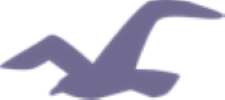
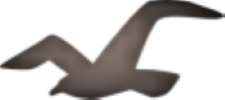
Add files via upload

diff --git a/src/index.css b/src/index.css
@@ -1,5 +1,5 @@
 body {
-  background-color: #00324F;
+  background-color: rgb(32, 31, 28);
   padding: 20px;
   margin: 0;
 }
@@ -7,11 +7,16 @@ body {
     background-image: url(./images/Hollister.jpg);
     margin: auto;
 }
+
+.btn-primary {
+  background-color: rgb(70, 70, 70);
+  border-color: rgb(70, 70, 70);
+}
 .col-one {
       width: 240px;
-      height: 100px;
+      height: 150px;
       background-image: url(./images/seagul2.png);
-      background-color: #00324F;
+      background-color: rgb(32, 31, 28);
       background-repeat: no-repeat;
       margin: auto;
       text-align: center;
@@ -22,8 +27,8 @@ body {
     height: 950px;
     background-repeat: no-repeat;
 }
-h1, h2, h3, p, ul, li, a {
-  color: black;
+h1, h2, h3, h4, p, ul, li, a {
+  color: azure;
   font-family: 'Franklin Gothic Medium', 'Arial Narrow', Arial, sans-serif
 }
 ul.header li {
@@ -32,7 +37,7 @@ ul.header li {
   margin: 0;
 }
 ul.header {
-  background-color: #00324F;
+  background-color: rgb(49, 48, 43);
   padding: 0;
 }
 ul.header li a {
@@ -57,26 +62,34 @@ ul.header li a {
   margin-bottom: 10px;
 }
 .active {
-  background-color: #0099FF;
+  background-color: rgb(70, 70, 70);
 }
 .card {
-  border-color: white;
+  border-color: rgb(32, 31, 28);
   width: 100px;
   height: 275px;
-  background-color: white;
+  background-color: rgb(32, 31, 28);
   font-size: 15pt;
   text-align: center;
   font-weight: 200;
   font-family: 'Franklin Gothic Medium', 'Arial Narrow', Arial, sans-serif;
 }
+
+.card-shop {
+  width: 100px;
+  height: 275px;
+  background-color: rgb(49, 48, 43);
+  font-size: 15pt;
+  text-align: center;
+  font-weight: 200;
+  font-family: 'Franklin Gothic Medium', 'Arial Narrow', Arial, sans-serif;
+}
+
 .container {
-  background-color: white;
+  background-color: rgb(32, 31, 28);
 }
 .footer {
   text-align: center;
-}
-.h4 {
-  color: #FFF;
 }
 
 .big-banner-top1 {

diff --git a/src/Hollister.js b/src/Hollister.js
@@ -3,8 +3,8 @@ class Hollister extends Component {
   render() {
     return (
       <div>
-        <div class="jumbotron big-banner" style={{width:'1250px', height: '950px', paddingTop:'500px'}}>
-          <div class="card" style={{width:'300px', margin:'auto', height: '160px'}}>
+        <div class="jumbotron big-banner" style={{width:'1400px', height: '950px', paddingTop:'500px'}}>
+          <div class="card-shop" style={{width:'300px', margin:'auto', height: '160px'}}>
             <div class="card-body">
               <h3>Selected items are 50% to 60% off!</h3>
               <a href="#Shop" class="btn btn-primary">Shop Now!</a>

diff --git a/src/Main.js b/src/Main.js
@@ -13,8 +13,8 @@ class Main extends Component {
     return (
         <HashRouter>
         <div>
+        <div class="col-one"></div>
           <ul className="header">
-            <div class="col-one"></div>
             <li><NavLink exact to="/">HOLLISTER</NavLink></li>
             <li><NavLink to="/AboutUs">ABOUT US</NavLink></li>
             <li><NavLink to="/Shop">SHOP</NavLink></li>
